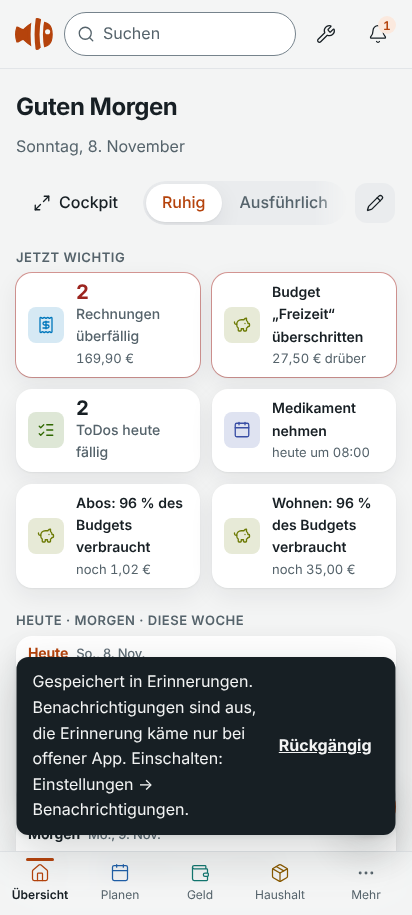
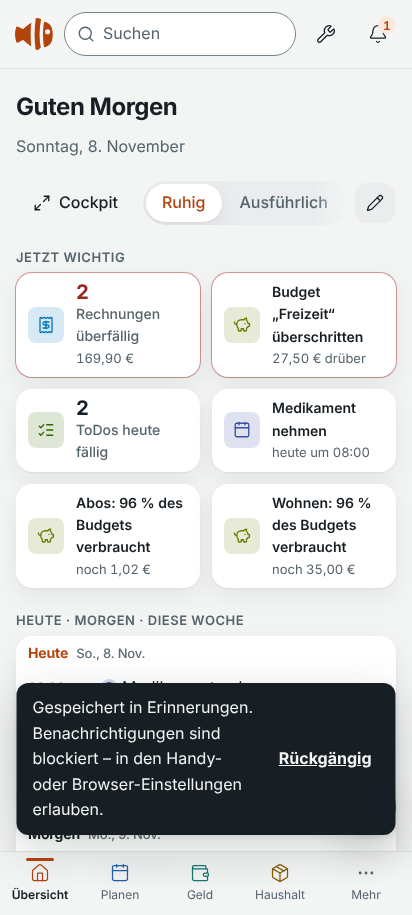
fix(quick-capture): council round 2 – a day keeps the amount, ask mark after the prompt
- "gestern Tanken 62,40" is an expense again (only a time stops an edge amount); "Abo von 9,99"
  keeps its amount (lookbehind only um/bis/gegen). Capital "So 15 Uhr" = Sunday is pinned.
- The device counts as asked only once the prompt came back.
- Docs: send note for Sven (after C06), branch name, why localStorage; retaken after shot.

Claude-Session: https://claude.ai/code/session_019RrxT5W56bFS1LkDSz6BJi

Changed region(s): [[0.0291, 0.7038, 0.9612, 0.918], [0.6699, 0.7956, 0.9029, 0.8568]]

diff --git a/web/src/quickCapture/parser/index.ts b/web/src/quickCapture/parser/index.ts
@@ -64,10 +64,10 @@ const SHORT_DAY_ANY_RE =
   /(?<![\p{L}\d])(?:([Aa]m)\s+(Mo|Di|Mi|Do|Fr|Sa|So|mo\.|di\.|mi\.|do\.|fr\.|sa\.|so\.)\.?|()(Mo|Di|Mi|Do|Fr|Sa|So)\.?(?=\s+(?:um\s+)?\d{1,2}(?::\d{2}\s*(?:[Uu]hr)?|\s*[Uu]hr)(?![\p{L}\d])))(?![\p{L}\d])/u;
 /**
  * A euro amount without currency word at the very start or end („Tanken 62,40“, C02): two decimals
- * only, never after a time word („um 14,30“, „bis 12,30“).
+ * only, never after a time word („um 14,30“, „bis 12,30“, „gegen 7,45“).
  */
 const EDGE_CENTS_RE =
-  /^\s*(\d{1,3}(?:\.\d{3})+,\d{2}|\d+,\d{2})(?=\s+\S)|(?<=\S\s+)(?<!(?:^|\s)(?:um|bis|ab|gegen|von)\s+)(\d{1,3}(?:\.\d{3})+,\d{2}|\d+,\d{2})\s*$/iu;
+  /^\s*(\d{1,3}(?:\.\d{3})+,\d{2}|\d+,\d{2})(?=\s+\S)|(?<=\S\s+)(?<!(?:^|\s)(?:um|bis|gegen)\s+)(\d{1,3}(?:\.\d{3})+,\d{2}|\d+,\d{2})\s*$/iu;
 /** „ab Do“: the day is the earliest one, not a pin. */
 const FROM_WORD = word(String.raw`ab`);
 /** „bis Do“, „Frist Do“: a hard deadline in a plan capture. */
@@ -212,9 +212,9 @@ export function parseCapture(input: string, opts: ParseOptions): CaptureResult {
       : slowRecurrence
         ? extractAmount(scan, 'decimal')
         : undefined;
-  // Only when nothing else gave the text a date or time („morgen 9 Uhr Zahnarzt 45,00“ stays an event).
+  // Not when the text has a time („morgen 9 Uhr Zahnarzt 45,00“ stays an event); a day is fine.
   const edgeMatch =
-    amount || bare || forced || recurrence || dt.date || dt.time !== undefined
+    amount || bare || forced || recurrence || dt.time !== undefined
       ? null
       : EDGE_CENTS_RE.exec(scan.t);
   const edgeCents = edgeMatch ? toCents((edgeMatch[1] ?? edgeMatch[2])!) : undefined;

diff --git a/web/src/quickCapture/parser/round5c.test.ts b/web/src/quickCapture/parser/round5c.test.ts
@@ -42,6 +42,20 @@ describe('C02: a comma time or a dated text is not money', () => {
     }
   });
 
+  it.each([
+    ['gestern Tanken 62,40', '2026-10-28'],
+    ['Tanken 62,40 am Do', '2026-11-05'],
+  ])('a day does not stop the amount: %s', (text, date) => {
+    expect(parse(text)).toMatchObject({
+      type: 'finance',
+      fields: { title: 'Tanken', amountMinor: 6240, date },
+    });
+  });
+
+  it('„Abo von 9,99“ keeps its amount', () => {
+    expect(parse('Abo von 9,99').fields.amountMinor).toBe(999);
+  });
+
   it('„morgen 9 Uhr Zahnarzt 45,00“ stays a clean appointment', () => {
     const r = parse('morgen 9 Uhr Zahnarzt 45,00');
     expect(r.type).toBe('event');
@@ -79,6 +93,10 @@ describe('C03: short weekday before a time („Do 14 Uhr“) or after „am“',
     expect(r.fields.date).toBeUndefined();
     expect(r.fields.title).toBe(text);
   });
+});
+
+it('C03 trade-off: a capital „So“ before a time is Sunday', () => {
+  expect(parse('So 15 Uhr passt').fields).toMatchObject({ date: '2026-11-01', time: '15:00' });
 });
 
 it('C03: lowercase „so“ before a time means „about“, not Sunday', () => {

diff --git a/web/src/quickCapture/ui/alertPermission.ts b/web/src/quickCapture/ui/alertPermission.ts
@@ -39,9 +39,9 @@ export async function ensureAlertPermission(
   if (!types.includes('reminder')) return {};
   let state = notifications.permission();
   if (state === 'default' && !askedBefore()) {
-    markAsked();
     try {
       state = await notifications.requestPermission();
+      markAsked(); // answered or dismissed: never again; a prompt that failed to show may retry
       // The save already passed the OS schedule while alerts were still undecided: rebuild it.
       if (state === 'granted') return { justGranted: true };
     } catch {

diff --git a/docs/decisions/ui-components.md b/docs/decisions/ui-components.md
@@ -24,6 +24,6 @@ Index: [DECISIONS](../DECISIONS.md). Tokens/brand: [ui-brand.md](ui-brand.md). S
 - **Delete without question, draft without dialog (2026-10-30, P5 package C):** Unterlagen delete = `deleteWithUndo` (toast "Rückgängig", no confirmation dialog). Esc, a tap beside the dialog and the close button keep typed text: `useFormDraft` (memory only, 30 min, dropped by saving or "Abbrechen"); `ui/Dialog` is unchanged (no clash with P2). Only the Unterlagen form uses it so far; other forms adopt it by swapping `useState` for `useFormDraft`.
 - **Row text on a phone (2026-10-29, `fix/qa-text-overflow`, QA B14):** row meta (`.muted`) is no longer clamped: it carries facts ("Kündigen bis …", file notes) that were cut off with no way to read them (vault 14 rows, invoices, subscriptions); only row titles keep the two-line clamp (the row opens the full text). At ≤ 40 rem a row keeps at least 9 rem for the text and lets status, amount and actions drop to a second line, instead of squeezing the text to one letter per line (invoices at 360 px). Finder: `e2e/screenshots/clipped-text.spec.ts` lists text that is cut off per page.
 - **Drafts in the Termin and Abo dialogs too (2026-10-30, P5 follow-up):** `EventEditor` and `SubscriptionEditor` use `useFormDraft` like the Unterlagen form (memory only, 30 minutes; a page reload drops it; saving and "Abbrechen" clear it). A new appointment's draft is keyed by kind and day, so another day starts clean; a restored draft is not overwritten by the remembered reminder lead.
-- **Quick-capture sheet keeps its text across an app kill (2026-11-08, `feat/demo-c`, C04):** exception to "drafts in memory only", like the notes crash draft: only the in-app sheet (`CaptureForm keepDraft`), `localStorage` key `tm-capture-draft` on this device (never synced, backed up or in diagnostics; one key for all windows), returned for 30 minutes, cleared on close or save, pruned at start; `resetDevice` drops it with the `tm-` prefix. Why: Android kills a backgrounded app and the phone user lost half-typed text. A saved quick-capture reminder asks for notifications once per device (`tm-alerts-asked`; Android reports "default" again after a no).
+- **Quick-capture sheet keeps its text across an app kill (2026-11-08, `feat/demo-c`, C04):** exception to "drafts in memory only", like the notes crash draft: only the in-app sheet (`CaptureForm keepDraft`), `localStorage` key `tm-capture-draft` on this device (never synced, backed up or in diagnostics; one key for all windows), returned for 30 minutes, cleared on close or save, pruned at start; `resetDevice` drops it with the `tm-` prefix. Why: Android kills a backgrounded app and the phone user lost half-typed text. A saved quick-capture reminder asks for notifications once per device (`tm-alerts-asked`; Android reports "default" again after a no); `localStorage`, not `_meta`, because both are read synchronously in the sheet and `resetDevice` clears the `tm-` keys.
 - **Settings on a phone, big monitors (2026-10-31, `fix/settings-mobile-overflow`):** a `stacked` `SettingRow` lays its children under each other (they sat side by side and pushed the weather place search off the screen: sideways scrolling on the phone); links in settings wrap (`overflow-wrap: anywhere`); the sticky settings search and the selection bar stick **below** the top bar on phones (`top` = touch target + 2 × `--space-3` + status-bar inset), not behind it. Page widths stay as in the spec (45/70/100 rem); Einstellungen is now a `wide` page and its column grows `clamp(44rem, 50vw, 85rem)` (tokens untouched). Finder: `e2e/screenshots/overflow-finder.spec.ts` (every settings category and main page at 360 px).
 

diff --git a/docs/qa/round-5/c/MESSAGE.md b/docs/qa/round-5/c/MESSAGE.md
@@ -1,6 +1,6 @@
 # Nachricht von Sven an C
 
-Zum Kopieren. `<LINK>` = Download der Android-Dev-Preview (`Nemo-dev.apk`, siehe [installation.de.md](../../../user/installation.de.md) „Dev-Preview“). Details zu den Hürden liefert `docs/install-first-run`.
+Zum Kopieren. `<LINK>` = Download der Android-Dev-Preview (`Nemo-dev.apk`, siehe [installation.de.md](../../../user/installation.de.md) „Dev-Preview“). Details zu den Hürden liefert der Branch `docs/install-first-run`. **Erst schicken, wenn C06 in der Dev-Preview behoben ist** (der Dev-Preview-Hinweis verdeckt sonst das „+“ aus Aufgabe 1; siehe [FINDINGS](FINDINGS.md)).
 
 ---
 
